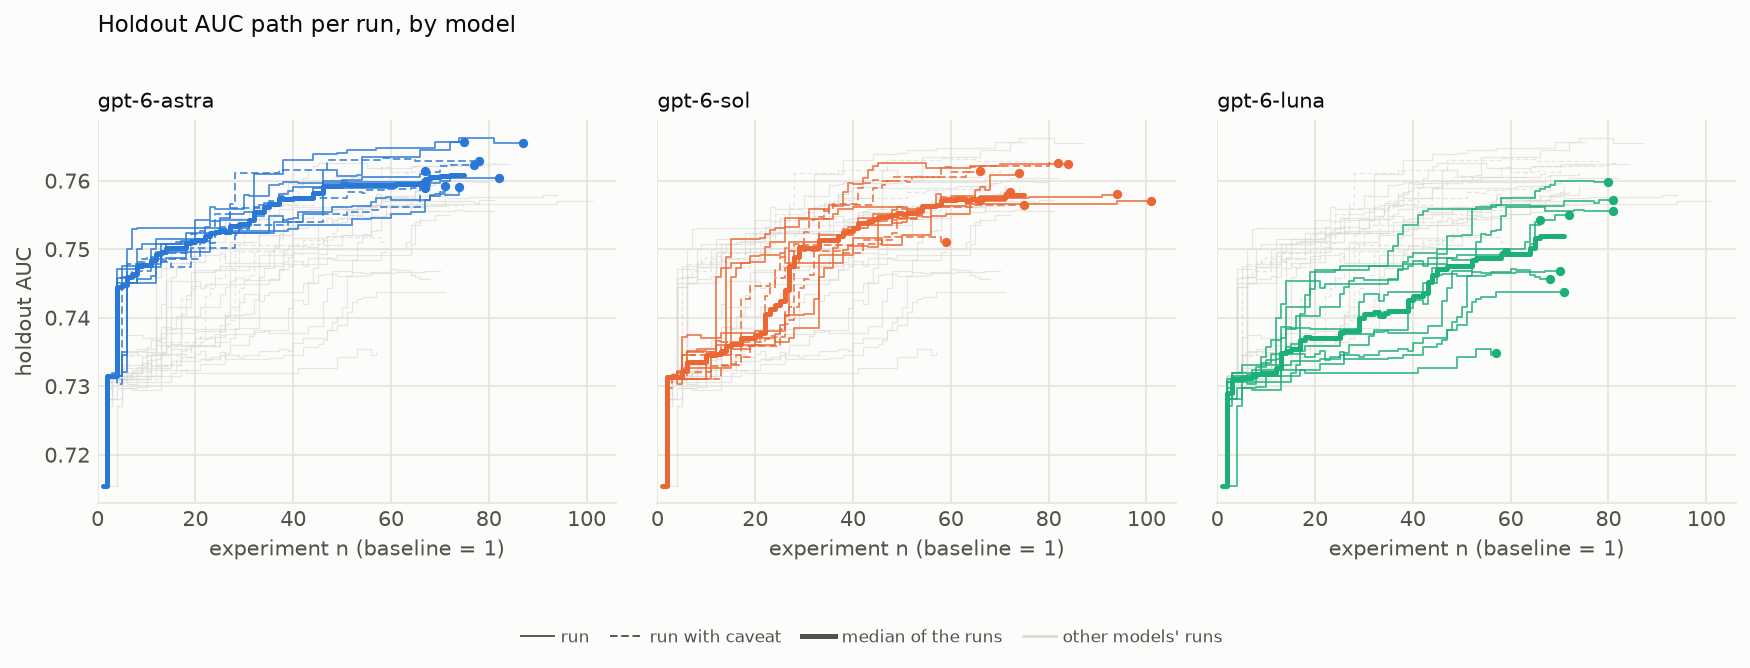
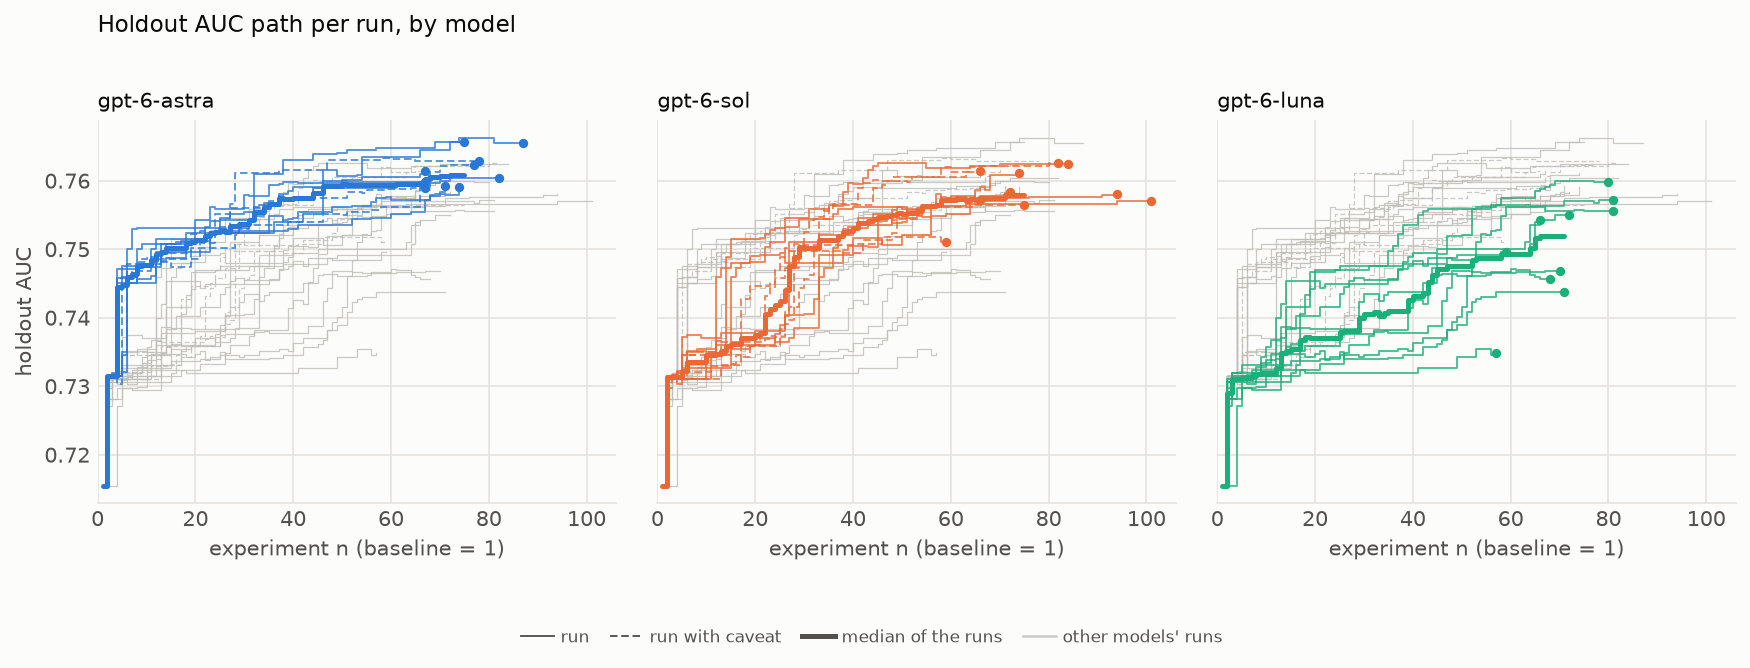
Panels path plot: slightly darker grey for the other models' runs

diff --git a/tools/plot_holdout_auc.py b/tools/plot_holdout_auc.py
@@ -55,6 +55,7 @@ SERIES = ["#2a78d6", "#eb6834", "#1baf7a", "#eda100", "#e87ba4", "#008300", "#4a
 # models not listed get the remaining slots in sorted order (and a warning)
 MODEL_SLOT = {"gpt-6-astra": 0, "gpt-6-sol": 1, "gpt-6-luna": 2, "gpt-5.6-luna": 3}
 SURFACE, INK, INK2, GRID, RANGE = "#fcfcfb", "#0b0b0b", "#52514e", "#e4e3df", "#d9d8d3"
+OTHER_RUNS = "#bebdb7"  # the other models' runs behind each panel of the panels path plot
 MIN_N_STATS = 5  # interval and percentiles only from this many runs up
 MIN_N_PATH = 5  # median / percentile paths only where at least this many runs are still going
 XLIM = None  # fixed holdout AUC range of the strip plot, e.g. (0.74, 0.77); None: the runs' range
@@ -277,7 +278,7 @@ def path_panels(runs, colour):
     axes = np.atleast_1d(axes)
     fig.subplots_adjust(bottom=0.24, top=0.82, left=0.07, right=0.98, wspace=0.08)
     for ax, m in zip(axes, models):
-        draw_runs(ax, [r for r in runs if r["model"] != m], lambda r: RANGE, lw=0.6, alpha=0.6, dots=False)
+        draw_runs(ax, [r for r in runs if r["model"] != m], lambda r: OTHER_RUNS, lw=0.6, alpha=0.8, dots=False)
         draw_runs(ax, [r for r in runs if r["model"] == m], lambda r: colour[m], lw=0.9, alpha=0.8)
         draw_median(ax, runs, m, colour[m])
         ax.grid(color=GRID, lw=0.8)
@@ -291,7 +292,7 @@ def path_panels(runs, colour):
         Line2D([], [], color=INK2, lw=0.9, label="run"),
         Line2D([], [], color=INK2, lw=0.9, ls=(0, (4, 2)), label="run with caveat"),
         Line2D([], [], color=INK2, lw=2.4, label="median of the runs"),
-        Line2D([], [], color=RANGE, lw=1.2, label="other models' runs"),
+        Line2D([], [], color=OTHER_RUNS, alpha=0.8, lw=1.2, label="other models' runs"),
     ]
     fig.legend(handles=legend, loc="lower center", bbox_to_anchor=(0.5, 0.0),
                ncol=len(legend), frameon=False, fontsize=8, labelcolor=INK2, handletextpad=0.4, columnspacing=1.2)
